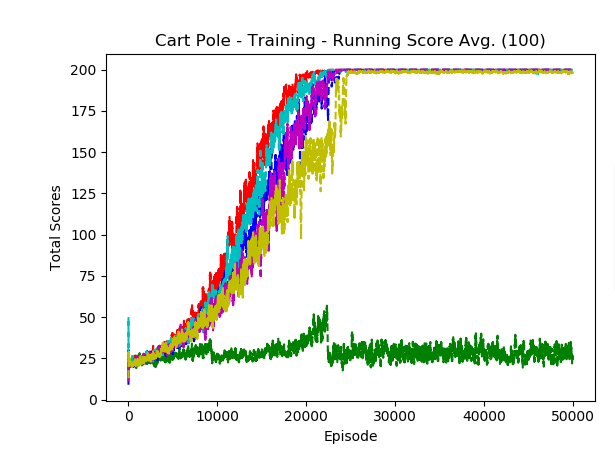
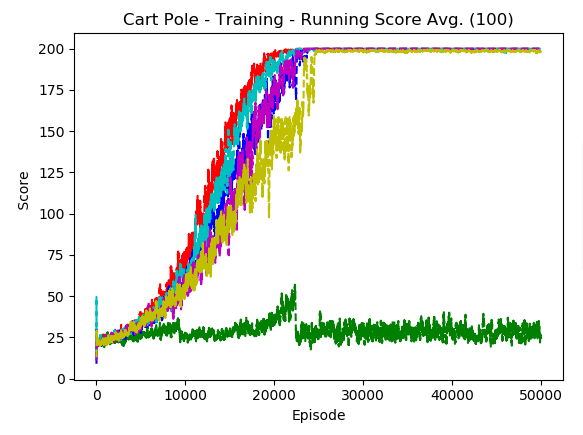
UPDATE

diff --git a/utils.py b/utils.py
@@ -31,7 +31,7 @@ class Utils:
     @staticmethod
     def plot_running_average(main_title, scores, window=100, show=False, file_name=None):
         plt.title(main_title + (' - Score' if window == 0 else ' - Running Score Avg. (%d)' % window))
-        plt.ylabel('Total Scores')
+        plt.ylabel('Score')
         plt.xlabel('Episode')
         plt.plot(*Utils.get_running_avg(scores, window))
         if file_name:
@@ -41,8 +41,8 @@ class Utils:
 
     @staticmethod
     def plot_accumulated_scores(main_title, scores, show=False, file_name=None):
-        plt.title(main_title + ' - Accumulated Scores')
-        plt.ylabel('Accumulated Scores')
+        plt.title(main_title + ' - Accumulated Score')
+        plt.ylabel('Accumulated Score')
         plt.xlabel('Episode')
         x = [i + 1 for i in range(len(scores))]
         plt.plot(x, scores)
@@ -55,7 +55,7 @@ class Utils:
     def plot_running_average_comparison(main_title, scores_list, labels=None, window=100, show=False, file_name=None):
         plt.figure(figsize=(8.5, 4.5))
         plt.title(main_title + (' - Score' if window == 0 else ' - Running Score Avg. (%d)' % window))
-        plt.ylabel('Total Scores')
+        plt.ylabel('Score')
         plt.xlabel('Episode')
         colors = ['r--', 'g--', 'b--', 'c--', 'm--', 'y--', 'k--']
         for i, scores in enumerate(scores_list):
@@ -72,8 +72,8 @@ class Utils:
     @staticmethod
     def plot_accumulated_scores_comparison(main_title, scores_list, labels=None, show=False, file_name=None):
         plt.figure(figsize=(8.5, 4.5))
-        plt.title(main_title + ' - Accumulated Scores')
-        plt.ylabel('Accumulated Scores')
+        plt.title(main_title + ' - Accumulated Score')
+        plt.ylabel('Accumulated Score')
         plt.xlabel('Episode')
         colors = ['r--', 'g--', 'b--', 'c--', 'm--', 'y--', 'k--']
 
@@ -140,7 +140,7 @@ class Utils:
         ax.axes.get_xaxis().set_visible(False)
         ax.yaxis.tick_right()
         # ax.set_xlabel('x label 2', color="C1")
-        ax.set_ylabel('Total Scores', color="C1")
+        ax.set_ylabel('Score', color="C1")
         # ax.xaxis.set_label_position('top')
         ax.yaxis.set_label_position('right')
         # ax.tick_params(axis='x', colors="C1")
